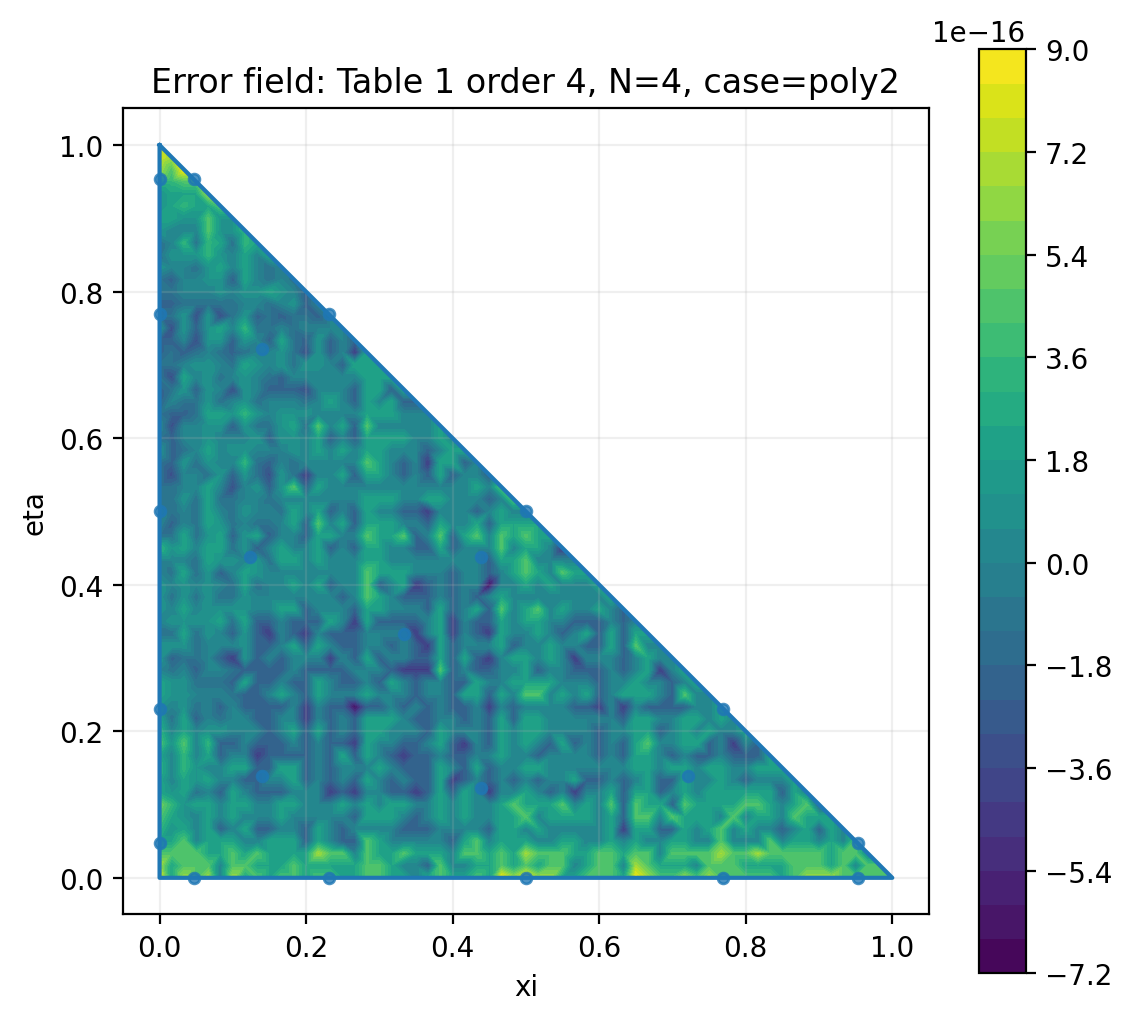
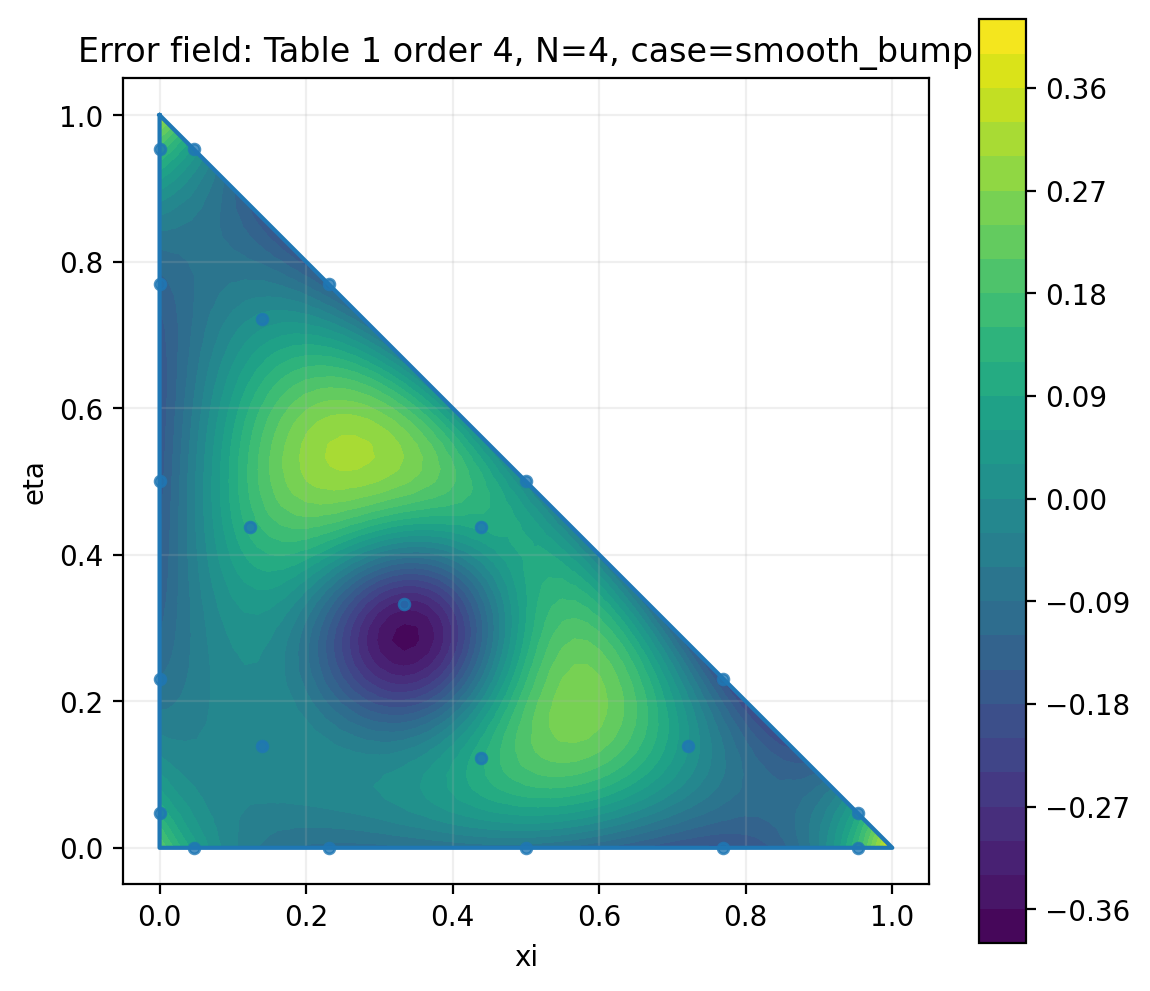
change case to smooth_bump

Changed region(s): [[0.0309, 0.0, 0.9894, 0.9687], [0.0, 0.4844, 0.0618, 0.5146]]

diff --git a/demo/demo_3d_table1.py b/demo/demo_3d_table1.py
@@ -30,7 +30,7 @@ def main() -> None:
     table_order = 4
     N = 4
     resolution = 60
-    case_name = "poly2"
+    case_name = "smooth_bump"
 
     rule = load_table1_rule(table_order)
 

diff --git a/demo/demo_3d_table2.py b/demo/demo_3d_table2.py
@@ -30,7 +30,7 @@ def main() -> None:
     table_order = 4
     N = 4
     resolution = 60
-    case_name = "poly2"
+    case_name = "smooth_bump"
 
     rule = load_table2_rule(table_order)
 

diff --git a/demo/demo_error_field_table1.py b/demo/demo_error_field_table1.py
@@ -29,7 +29,7 @@ def main() -> None:
     table_order = 4
     N = 4
     resolution = 60
-    case_name = "poly2"
+    case_name = "smooth_bump"
 
     rule = load_table1_rule(table_order)
 

diff --git a/demo/demo_error_field_table2.py b/demo/demo_error_field_table2.py
@@ -31,7 +31,7 @@ def main() -> None:
     table_order = 4
     N = 4
     resolution = 60
-    case_name = "poly2"
+    case_name = "smooth_bump"
 
     rule = load_table2_rule(table_order)
 

diff --git a/demo/demo_reconstruct_field_table1.py b/demo/demo_reconstruct_field_table1.py
@@ -31,7 +31,7 @@ def main() -> None:
     table_order = 4
     N = 4
     resolution = 50
-    case_name = "poly2"
+    case_name = "smooth_bump"
 
     rule = load_table1_rule(table_order)
 

diff --git a/demo/demo_reconstruct_field_table2.py b/demo/demo_reconstruct_field_table2.py
@@ -31,7 +31,7 @@ def main() -> None:
     table_order = 4
     N = 4
     resolution = 50
-    case_name = "poly2"
+    case_name = "smooth_bump"
 
     rule = load_table2_rule(table_order)
 

diff --git a/demo/demo_radial_sampling_table2.py b/demo/demo_radial_sampling_table2.py
@@ -30,7 +30,7 @@ def main() -> None:
 
     table_order = 4
     N = 4
-    case_name = "poly2"
+    case_name = "smooth_bump"
 
     rule = load_table2_rule(table_order)
 
